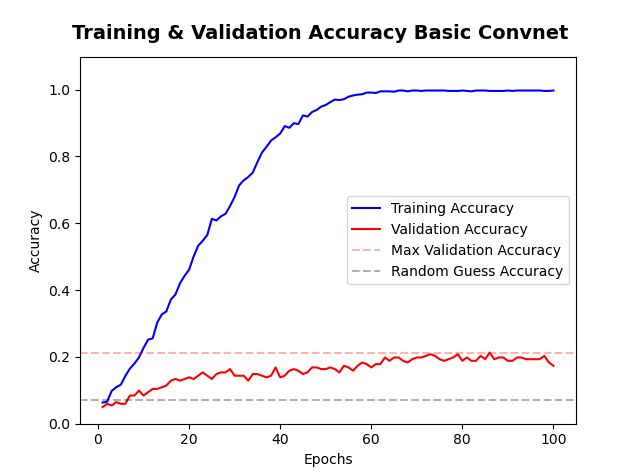
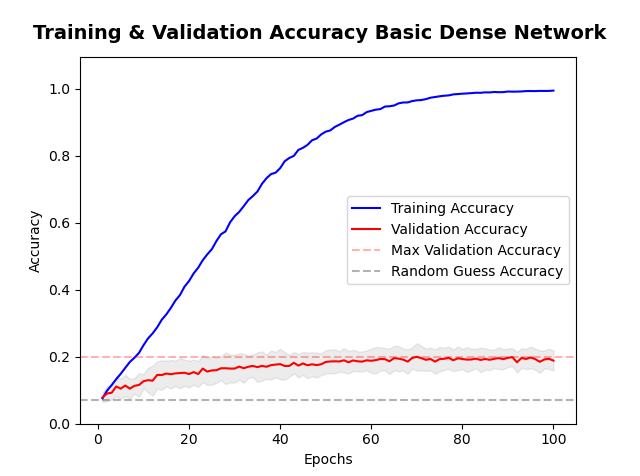
basic cnn improved figures and metrics

diff --git a/04_basic_convnet.py b/04_basic_convnet.py
@@ -24,7 +24,7 @@ import pandas as pd
 import numpy as np
 import pickle
 import matplotlib.pyplot as plt
-from fish_functions import print_tf_setup, open_jpeg_as_np, gen_data_array_image
+from fish_functions import print_tf_setup, open_jpeg_as_np, gen_data_array_image, n_retraining
 
 plt.close('all')
 
@@ -50,6 +50,7 @@ image_size = (32, 32)
 input_shape = image_size + (3,)
 batch_size = 32
 num_classes = 14
+num_epochs = 100
 
 image_vector_len = image_size[0] * image_size[1]
 num_images = len(labels)
@@ -94,6 +95,21 @@ clf = model.fit(train_images,
                 batch_size=batch_size,
                 validation_data=(test_images, test_labels))
 
+metrics_dict = n_retraining(model=model, 
+                            n=10, 
+                            train_data=train_images, 
+                            train_labels=train_labels, 
+                            val_data=test_images,
+                            val_labels=test_labels,
+                            epochs=num_epochs,
+                            batch_size=batch_size,
+                            s=3,
+                            smooth=False)
+
+#looking at predictions on a collection of test and train images for basic inspection and QC.
+train_predictions = model.predict(train_images[:100])
+val_predictions = model.predict(test_images[:100])
+
 
 #------------------------------- MODEL PERFORMANCE ----------------------------
 
@@ -107,25 +123,21 @@ epochs = list(range(1, len(loss_values)+1))
 
 #fig setup including twin axis
 fig, ax = plt.subplots()
-fig.suptitle('Training & Validation Loss Basic Convnet', y=0.95, fontsize=14, fontweight='bold')
+fig.suptitle('Training & Validation Loss Basic Dense Network', y=0.95, fontsize=14, fontweight='bold')
 
 #plotting training and validation loss
-ax.plot(epochs, loss_values, 'b', label='Training Loss')
-ax.plot(epochs, val_loss, 'r', label='Validation Loss')
-ax.axhline(min(val_loss), c='r', alpha=0.3, ls='dashed', label='Min Validation Loss')
+ax.plot(epochs, metrics_dict['train_loss_mean'], 'b', label='Training Loss')
+ax.plot(epochs, metrics_dict['val_loss_mean'], 'r', label='Validation Loss')
+ax.plot(epochs, metrics_dict['val_loss_std_p'], label='_nolegend_', alpha=0)
+ax.plot(epochs, metrics_dict['val_loss_std_n'], label='_nolegend_', alpha=0)
+ax.fill_between(epochs, metrics_dict['val_loss_std_p'], metrics_dict['val_loss_std_n'], color='grey', alpha=0.15)
+ax.axhline(np.nanmin(metrics_dict['val_loss_mean']), c='r', alpha=0.3, ls='dashed', label='Min Validation Loss')
 
-#setting axis limits
-ax.set_ylim([min(loss_values)-0.5, min(loss_values)+8])
-
-#plotting legend
-ax.legend()
-
-#plotting axis labels
+#setting axis limits, labels and legend
+ax.set_ylim([np.nanmin(metrics_dict['train_loss_mean'])-0.5, np.nanmin(metrics_dict['train_loss_mean'])+8])
 ax.set_xlabel('Epochs')
 ax.set_ylabel('Loss')
-
-train_predictions = model.predict(train_images[:100])
-val_predictions = model.predict(test_images[:100])
+ax.legend()
 
 #--------- TRAINING & VALIDATION ACCURACY ---------
 
@@ -133,23 +145,26 @@ val_predictions = model.predict(test_images[:100])
 accuracy_values = history_dict['accuracy']
 val_accuracy = history_dict['val_accuracy']
 
-#fig setup including twin axis
+#fig setup
 fig2, ax = plt.subplots()
-fig2.suptitle('Training & Validation Accuracy Basic Convnet', y=0.95, fontsize=14, fontweight='bold')
+fig2.suptitle('Training & Validation Accuracy Basic Dense Network', y=0.95, fontsize=14, fontweight='bold')
 
-#plotting training and validation loss
-ax.plot(epochs, accuracy_values, 'b', label='Training Accuracy')
-ax.plot(epochs, val_accuracy, 'r', label='Validation Accuracy')
-ax.axhline(max(val_accuracy), c='r', alpha=0.3, ls='dashed', label='Max Validation Accuracy')
+#plotting training and validation accuracy
+ax.plot(epochs, metrics_dict['train_acc_mean'], 'b', label='Training Accuracy')
+ax.plot(epochs, metrics_dict['val_acc_mean'], 'r', label='Validation Accuracy')
+ax.plot(epochs, metrics_dict['val_acc_std_p'], label='_nolegend_', alpha=0)
+ax.plot(epochs, metrics_dict['val_acc_std_n'], label='_nolegend_', alpha=0)
+ax.fill_between(epochs, metrics_dict['val_acc_std_p'], metrics_dict['val_acc_std_n'], color='grey', alpha=0.15)
+
+#plotting accuracy lines
+ax.axhline(np.nanmax(metrics_dict['val_acc_mean']), c='r', alpha=0.3, ls='dashed', label='Max Validation Accuracy')
 ax.axhline(1/14, c='k', alpha=0.3, ls='dashed', label='Random Guess Accuracy')
 
-#setting axis limits
-ax.set_ylim([0,max(accuracy_values)+0.1])
-
-#plotting legend
+#plotting legend and setting limits
 ax.legend()
 ax.set(xlabel='Epochs',
        ylabel='Accuracy');
+ax.set_ylim([0,np.nanmax(metrics_dict['train_acc_mean'])+0.1])
 
 #https://stats.stackexchange.com/questions/282160/how-is-it-possible-that-validation-loss-is-increasing-while-validation-accuracy
 
